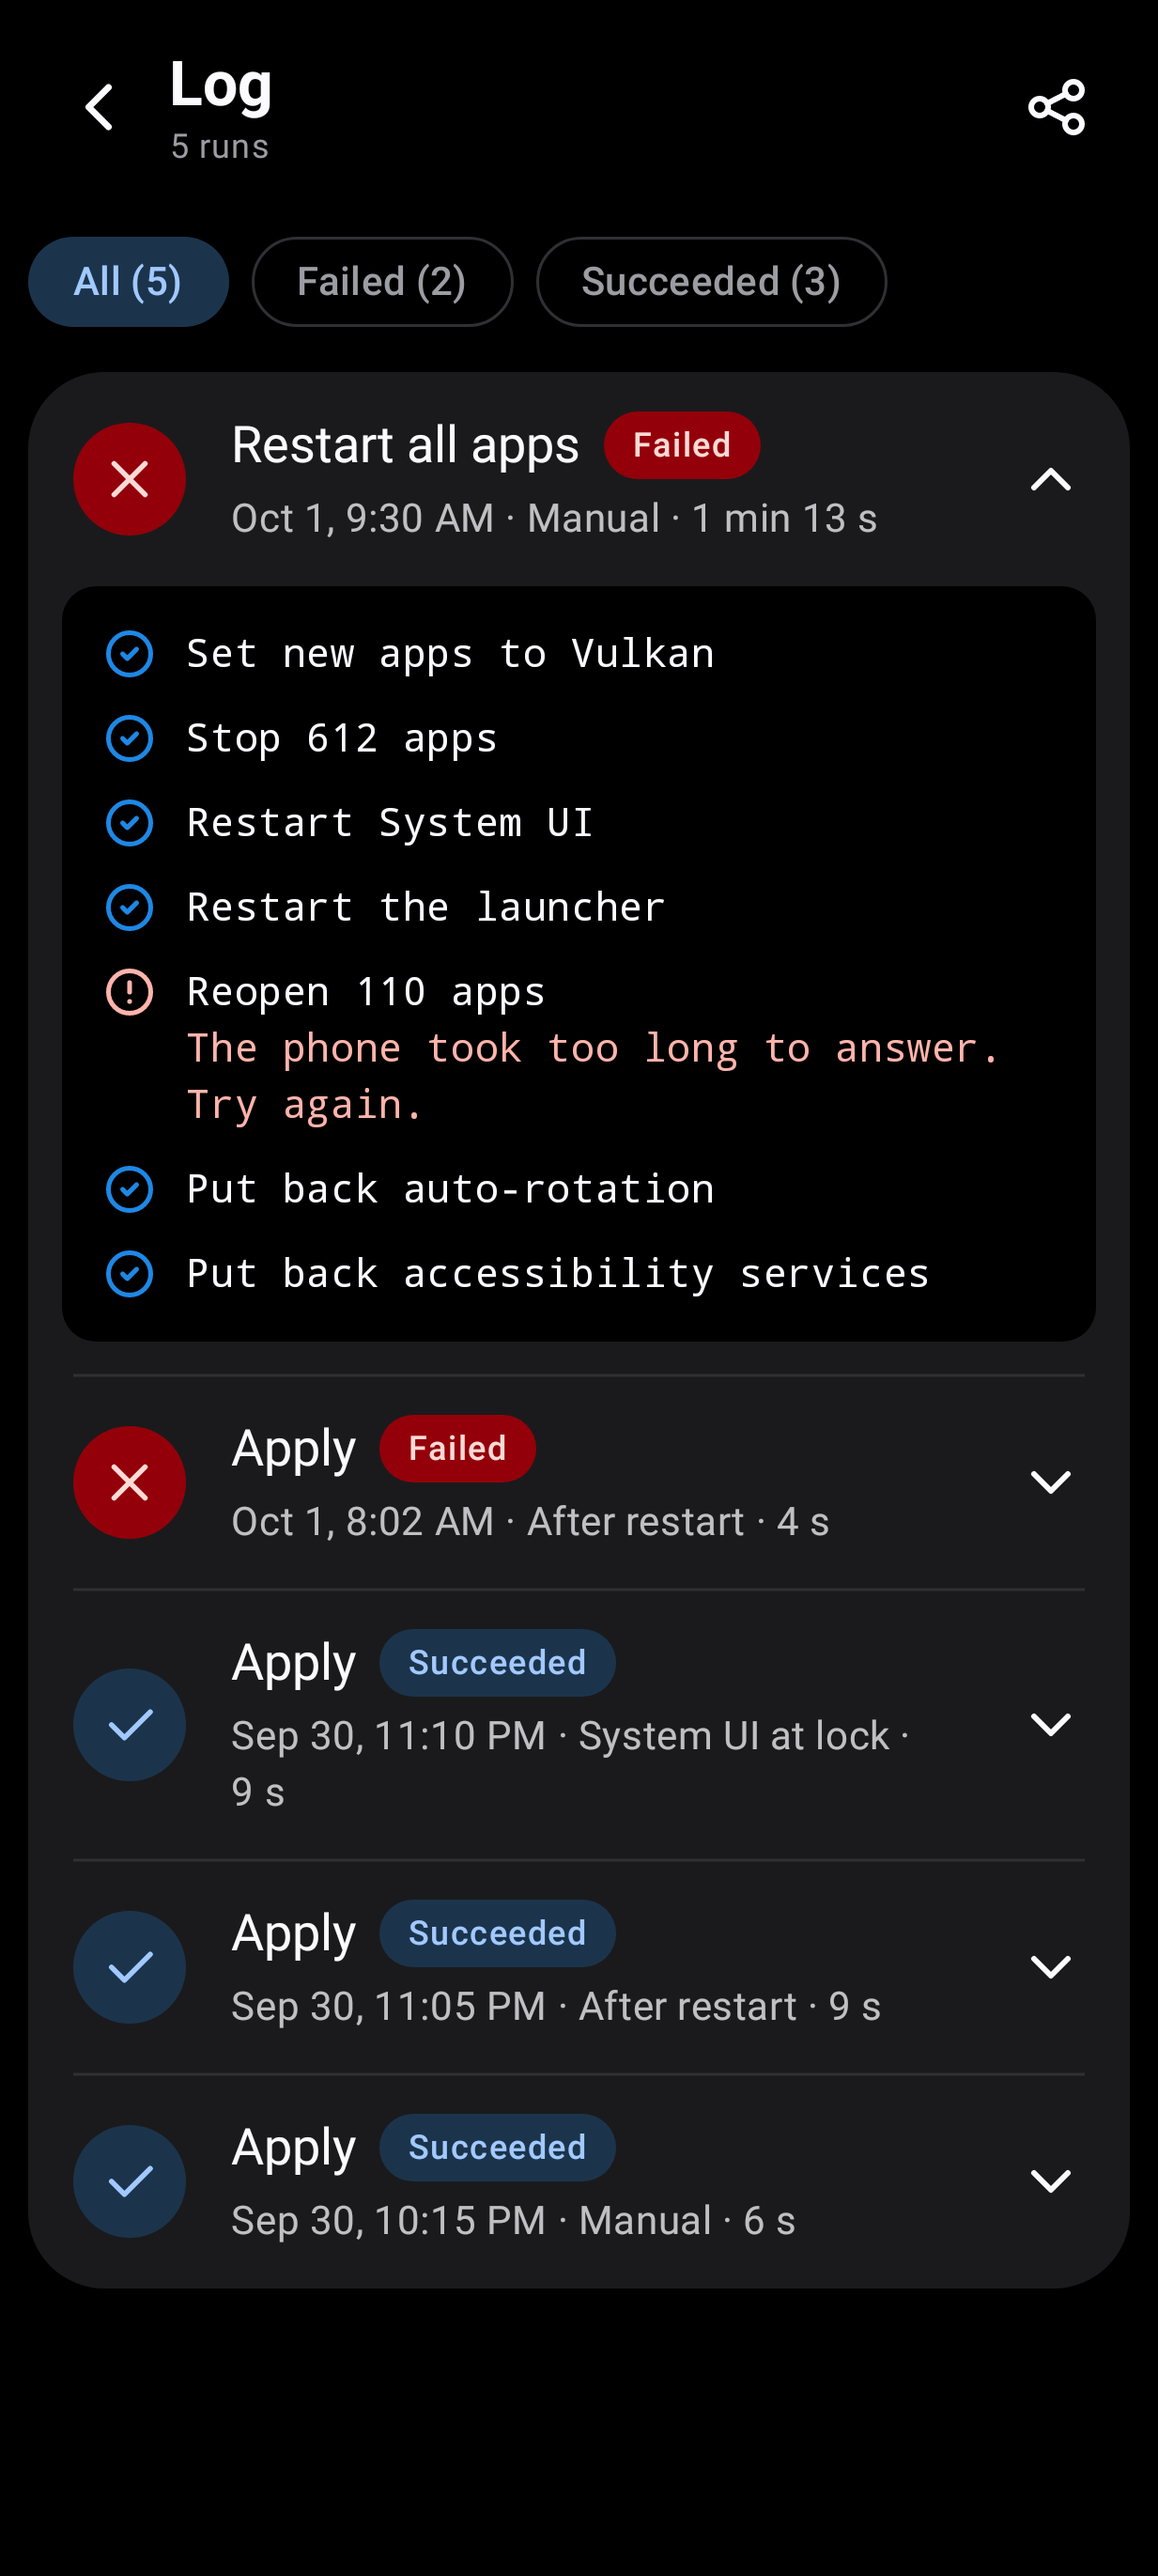
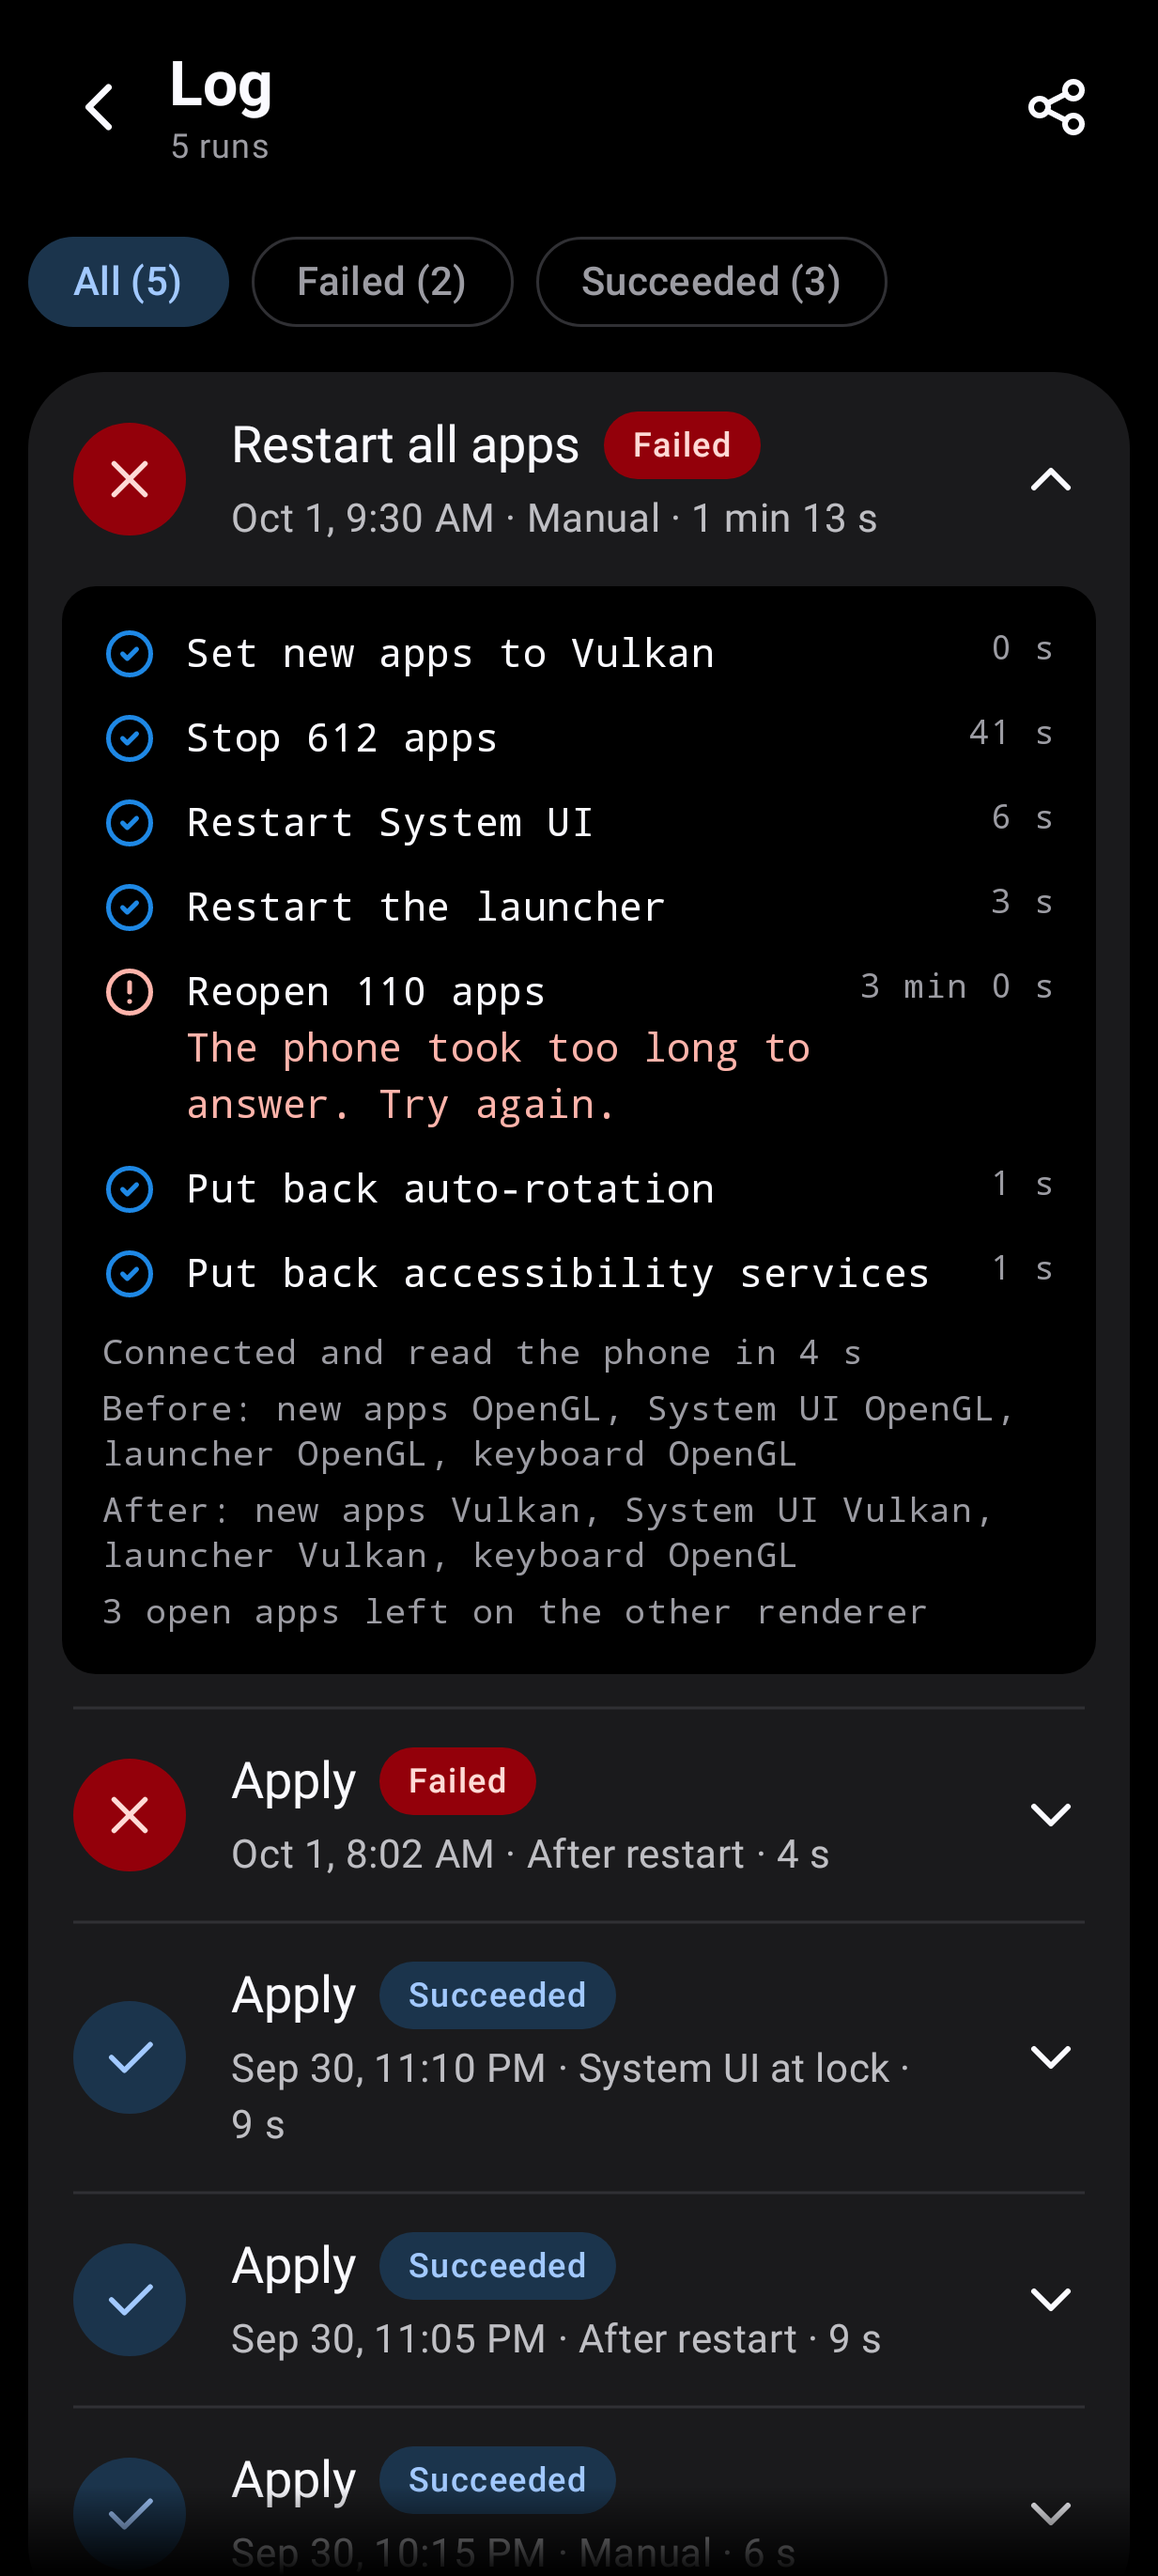
Prepare version 1.1.1
1.1.1 brings the nearby devices permission Android 17 needs, Home no longer reconnecting on the way back from Log or Settings, and the outlined icons in the Material style; F-Droid picks a version up only once its code is raised.

- Raise the version to 1.1.1, code 3, and add its changelog.
- Update Conscrypt to 2.8.0.
- Copy the store screenshots of One UI Home, the log and Material Home again from the screenshot tests, which had moved on since 1.1.0.
- Say in the README that the app is tested on One UI 9 too.
- Name 1.1.1 in the F-Droid notes as the release that brings what F-Droid has not built yet, Conscrypt's native library among it.
- Record the release build on the S23: Home makes no new connection on the way back from Log or Settings, makes one after the app was left, and connects with Conscrypt 2.8.0.

diff --git a/docs/f-droid.md b/docs/f-droid.md
@@ -55,7 +55,7 @@ The recipe needs a change by hand only when the build itself must change: anothe
 before the build. That is a merge request to fdroiddata, changing the new version's build entry once the bot has
 added it.
 
-### What the next release brings that F-Droid has not built yet
+### What 1.1.1 brings that F-Droid has not built yet
 
 Each of these builds on a Mac and has not yet been through F-Droid's build server. If the next build fails, or
 its APK differs from the published one, look here first.
@@ -65,6 +65,8 @@ its APK differs from the published one, look here first.
 - **Gradle 9.8.2**, with its distribution's checksum pinned in `gradle/wrapper/gradle-wrapper.properties`.
 - **kotlinx.serialization 1.12.0.** Nothing to check for it in `gradle/verification-metadata.xml`, which pins only
   the libraries from JitPack.
+- **Conscrypt 2.8.0**, whose `libconscrypt_jni.so` is the largest native library in the APK; it is stripped with
+  the same NDK as before.
 - **A new permission, `ACCESS_LOCAL_NETWORK`.** F-Droid lists an app's permissions on its page. It is the Nearby
   devices permission Android 17 asks for before an app looks for services on the network, and the app uses it
   only to find the phone's own wireless debugging.

diff --git a/docs/testing.md b/docs/testing.md
@@ -260,8 +260,9 @@ When you check one, tick it here and record what you saw in the device notes.
 - [x] `Settings.Global.BOOT_COUNT` reads on the phone.
 - [x] It goes up by one across a reboot.
 - [ ] Opening Home twice within 30 seconds raises "Wireless debugging connected" once.
-- [ ] Home, then Log or Settings for more than 30 seconds, then back: Home does not connect again and no "Wireless
-      debugging connected" notification drops. Leaving the app for as long and coming back does connect.
+- [x] Home, then Log or Settings for more than 30 seconds, then back: Home does not connect again and no "Wireless
+      debugging connected" notification drops. Leaving the app for as long and coming back does connect. (The
+      1.1.1 release build on One UI 9, counted from adbd's log; device notes, section 15.)
 - [ ] After a run, Home shows the result without a new "Wireless debugging connected" notification.
 - [x] `cmd package resolve-activity --brief` and `cmd role get-role-holders` print the formats in the device notes,
       section 2.

diff --git a/docs/device-notes.md b/docs/device-notes.md
@@ -527,3 +527,13 @@ the fix, on a Wi-Fi network marked "Always allow".
 On 21 Oct 2026 a release build of `main` with the fix (6bdcd4a, ahead of 1.1.1) was used on the same phone on One
 UI 9, and the app worked as it does on Android 16. Which checks that use covered was not recorded, so it ticks
 none in `testing.md` beyond the ones above.
+
+The same day the 1.1.1 release build, with Conscrypt 2.8.0, was installed over it, with the USB cable plugged in,
+and its connections counted from adbd's log, where each new one is a line `New TLS connection`:
+
+| Fact | Status |
+|---|---|
+| Opening Home makes one connection; the TLS handshake succeeds with Conscrypt 2.8.0, the connection is closed about 11 seconds later and wireless debugging is switched off again | Measured |
+| Home, then Settings for 40 seconds, then back: no connection, and wireless debugging is not switched on | Measured |
+| Home, then Log for 35 seconds, then back: no connection | Measured |
+| Leaving the app for 35 seconds and opening it again: one connection | Measured |

diff --git a/README.md b/README.md
@@ -97,7 +97,7 @@ Burkan does it on the phone. It pairs once with the phone's own Wireless Debuggi
 ## Quick setup
 
 > [!NOTE]
-> You need a Samsung Galaxy S23, S23+, or S23 Ultra on Android 13 or newer, connected to Wi-Fi. Tested on One UI 8.5 (Android 16).
+> You need a Samsung Galaxy S23, S23+, or S23 Ultra on Android 13 or newer, connected to Wi-Fi. Tested on One UI 8.5 (Android 16) and One UI 9 (Android 17).
 
 Setup takes under two minutes and is done once.
 
